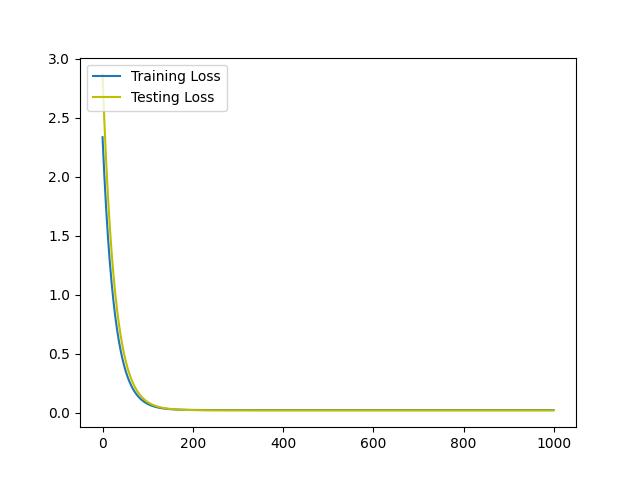
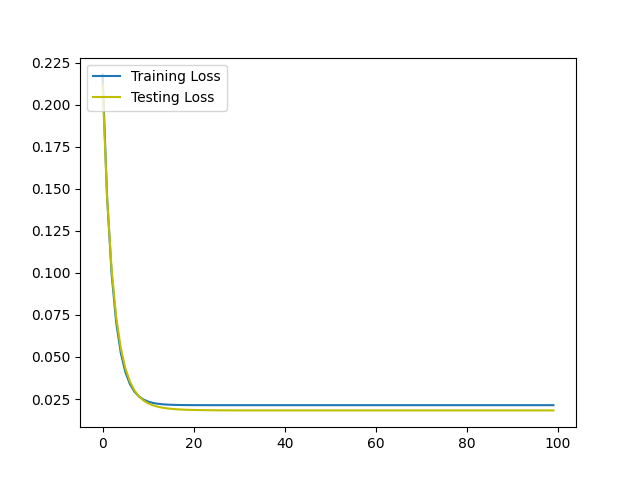
Added: Armijo's algorithm for the learning rate calculation

diff --git a/src/modules/neuron.py b/src/modules/neuron.py
@@ -12,7 +12,7 @@ class Neuron:
 
         self.loss_function = loss_function
         self.activation_function = activation_function
-        self.weights = []
+        self.weights = np.array([])
 
         self.loss_history = []
         self.testing_loss_history = []
@@ -26,10 +26,13 @@ class Neuron:
             [np.random.uniform(-1, 1) for _ in range(input_dimension)]
         )
 
-    def _predict(self, x):
-        return self.activation_function(np.dot(self.weights, x))
+    def _predict(self, x, weights=None):
+        if weights is None:
+            weights = self.weights
 
-    def calculate_loss(self, testing=False):
+        return self.activation_function(np.dot(weights, x))
+
+    def calculate_loss(self, weights=None, testing=False):
         inputs = self.inputs
         outputs = self.outputs
 
@@ -37,7 +40,34 @@ class Neuron:
             inputs = self.testing_inputs
             outputs = self.testing_outputs
 
-        return self.loss_function(inputs, outputs, self._predict)
+        return self.loss_function(inputs, outputs, self._predict, weights)
+
+    def armijo_gradient(self):
+        partial_derivatives = []
+
+        for i in range(len(self.weights)):
+            dx = np.zeros(len(self.weights))
+            dx[i] = 0.001
+
+            partial_derivatives.append(
+                (self.loss_function(self.inputs, self.outputs, self._predict, self.weights + dx) - self.loss_function(
+                    self.inputs, self.outputs, self._predict, self.weights)) / 0.001
+            )
+
+        return np.array(partial_derivatives)
+
+    def armijo(self, beta=0.1):
+        epsilon = 1
+        derivative = self.armijo_gradient()
+
+        def error(x):
+            return self.loss_function(self.inputs, self.outputs, self._predict, x)
+
+        while error(self.weights - epsilon * derivative) > error(self.weights) - (epsilon / 2) * (
+                np.linalg.norm(derivative) ** 2):
+            epsilon = epsilon * beta
+
+        return epsilon
 
     def train(self):
         self.loss_history.append(self.calculate_loss())

diff --git a/src/helpers/loss_functions.py b/src/helpers/loss_functions.py
@@ -3,9 +3,9 @@ import math
 import numpy as np
 
 
-def mean_squared_error(inputs, outputs, predict_function):
+def mean_squared_error(inputs, outputs, predict_function, weights=None):
     return sum([
-        (outputs[i] - predict_function(x)) ** 2
+        (outputs[i] - predict_function(x, weights)) ** 2
         for i, x in enumerate(inputs)
     ]) / inputs.shape[0]
 
@@ -27,9 +27,9 @@ def mean_squared_gradient(inputs, outputs, predict_function):
     return np.array(gradients)
 
 
-def logit_error(inputs, outputs, predict_function):
+def logit_error(inputs, outputs, predict_function, weights=None):
     return - sum([
-        (outputs[i] - math.log(predict_function(x))) + ((1 + outputs[i]) - math.log(1 - predict_function(x)))
+        (outputs[i] * math.log(predict_function(x, weights))) + ((1 - outputs[i]) - math.log(1 - predict_function(x, weights)))
         for i, x in enumerate(inputs)
     ]) / inputs.shape[0]
 
@@ -50,8 +50,8 @@ def logit_gradient(inputs, outputs, predict_function):
     return np.array(gradients)
 
 
-def normal_error(inputs, outputs, predict_function):
+def normal_error(inputs, outputs, predict_function, weights=None):
     return sum([
-        int(predict_function(inputs[i]) != outputs[i])
+        int(predict_function(inputs[i], weights) != outputs[i])
         for i in range(len(inputs))
     ]) / inputs.shape[0]

diff --git a/tests/logistic.py b/tests/logistic.py
@@ -5,13 +5,11 @@ from src.modules.logistic_regression import LogisticRegression
 from src.modules.plotter import Plotter
 
 dataset = Dataset(
-    os.path.join(os.getcwd(), '../datasets/regression_part_2.csv'),
-    ['x'],
+    os.path.join(os.getcwd(), '../datasets/classification_data.csv'),
+    ['x_1', 'x_2'],
     'y',
     shuffle=True
 )
-
-dataset.normalize()
 
 training_inputs, testing_inputs, training_outputs, testing_outputs = dataset.split_data(testing_size=0.3)
 
@@ -27,10 +25,12 @@ plotter = Plotter(
     training_inputs.copy(),
     training_outputs.copy(),
     testing_inputs.copy(),
-    testing_outputs.copy()
+    testing_outputs.copy(),
+    saves_output_dir='../plots',
+    saves_prefix='logistic'
 )
 
-logistic_regression.train(max_iterations=1000, learning_rate=0.1)
+logistic_regression.train(max_iterations=1000, learning_rate=0.01)
 
-plotter.scatter_data(dataset.min(column='x'), dataset.max(column='x'), save=True)
+plotter.scatter_data_for_classification(dataset.min(column='x_1'), dataset.max(column='x_1'), save=True)
 plotter.plot_loss_evolution(save=True)

diff --git a/src/modules/pocket.py b/src/modules/pocket.py
@@ -19,12 +19,6 @@ class Pocket(Neuron):
 
         return self._predict(np.concatenate((x, [1])))
 
-    def predict_with_weights(self, x, weights):
-        return self.activation_function(np.dot(weights, x))
-
-    def calculate_loss_with_weights(self, weights):
-        return self.loss_function(self.inputs, self.outputs, lambda x: self.predict_with_weights(x, weights))
-
     def train(self, max_iterations=1000):
         weights = self.weights.copy()
 
@@ -33,10 +27,10 @@ class Pocket(Neuron):
                 x = self.inputs[i]
                 y = self.outputs[i]
 
-                if self.predict_with_weights(x, weights) != y:
+                if self._predict(x, weights) != y:
                     weights = weights + (y * x)
 
-            if self.calculate_loss_with_weights(weights) < self.calculate_loss_with_weights(self.weights):
+            if self.calculate_loss(weights) < self.calculate_loss(self.weights):
                 self.weights = weights.copy()
 
             super().train()

diff --git a/src/modules/polynomial_regression.py b/src/modules/polynomial_regression.py
@@ -23,9 +23,12 @@ class PolynomialRegression(Neuron):
 
         return self._predict(np.concatenate((x, [1])))
 
-    def train(self, max_iterations=100, learning_rate=0.1):
+    def train(self, max_iterations=100, learning_rate=0.1, use_armijo=False):
         for i in range(max_iterations):
             gradients = mean_squared_gradient(self.inputs, self.outputs, self.predict)
+
+            if use_armijo:
+                learning_rate = self.armijo()
 
             self.weights = self.weights - learning_rate * gradients
 

diff --git a/tests/polynomial.py b/tests/polynomial.py
@@ -1,4 +1,5 @@
 import os
+
 from src.modules.dataset import Dataset
 from src.modules.plotter import Plotter
 from src.modules.polynomial_regression import PolynomialRegression
@@ -32,7 +33,7 @@ plotter = Plotter(
     saves_prefix='polynomial'
 )
 
-polynomial_regression.train(max_iterations=1000, learning_rate=0.01)
+polynomial_regression.train(max_iterations=30, use_armijo=True, learning_rate=0.01)
 
 plotter.scatter_data(dataset.min(column='x'), dataset.max(column='x'), save=True)
 plotter.plot_loss_evolution(save=True)

diff --git a/src/modules/linear_regression.py b/src/modules/linear_regression.py
@@ -14,9 +14,12 @@ class LinearRegression(Neuron):
 
         return self._predict(np.concatenate((x, [1])))
 
-    def train(self, max_iterations=100, learning_rate=0.1):
+    def train(self, max_iterations=100, learning_rate=0.1, use_armijo=False):
         for i in range(max_iterations):
             gradients = mean_squared_gradient(self.inputs, self.outputs, self.predict)
+
+            if use_armijo:
+                learning_rate = self.armijo()
 
             self.weights = self.weights - learning_rate * gradients
 

diff --git a/tests/linear.py b/tests/linear.py
@@ -32,7 +32,7 @@ plotter = Plotter(
     saves_prefix='linear'
 )
 
-linear_regression.train(max_iterations=1000, learning_rate=0.01)
+linear_regression.train(max_iterations=100, learning_rate=0.01, use_armijo=True)
 
 plotter.scatter_data(dataset.min(column='x'), dataset.max(column='x'), save=True)
 plotter.plot_loss_evolution(save=True)

diff --git a/src/modules/logistic_regression.py b/src/modules/logistic_regression.py
@@ -7,7 +7,7 @@ from src.modules.neuron import Neuron
 
 class LogisticRegression(Neuron):
     def __init__(self, *args):
-        super().__init__(*args, loss_function=logit_error)
+        super().__init__(*args, activation_function=sigmoid, loss_function=logit_error)
 
     def predict(self, x):
         if len(x) != 1:
